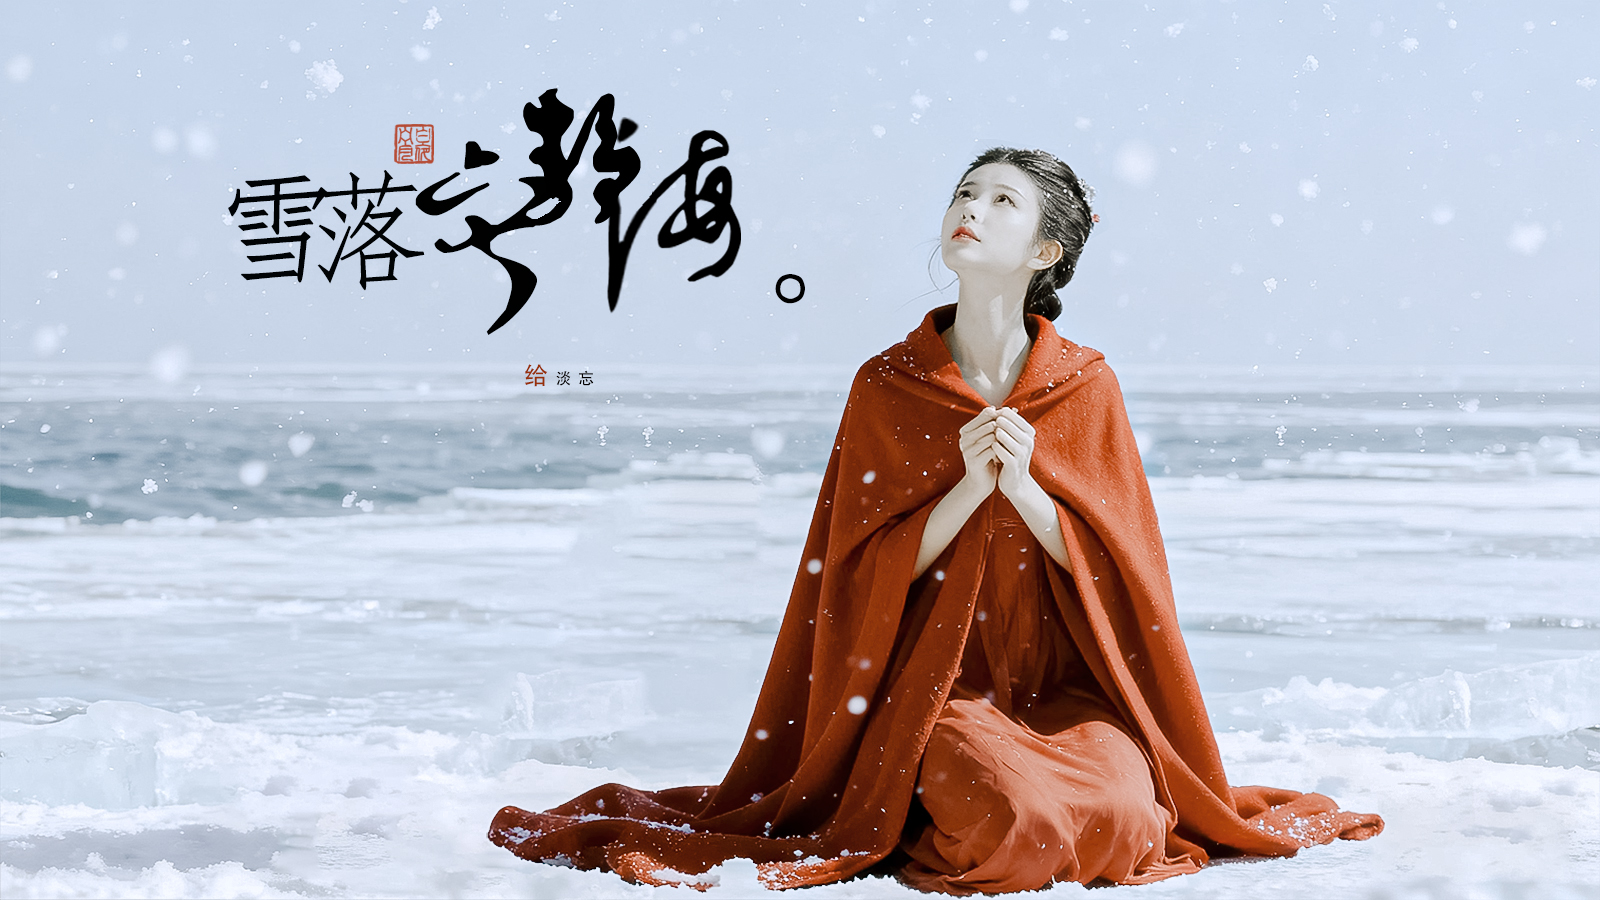
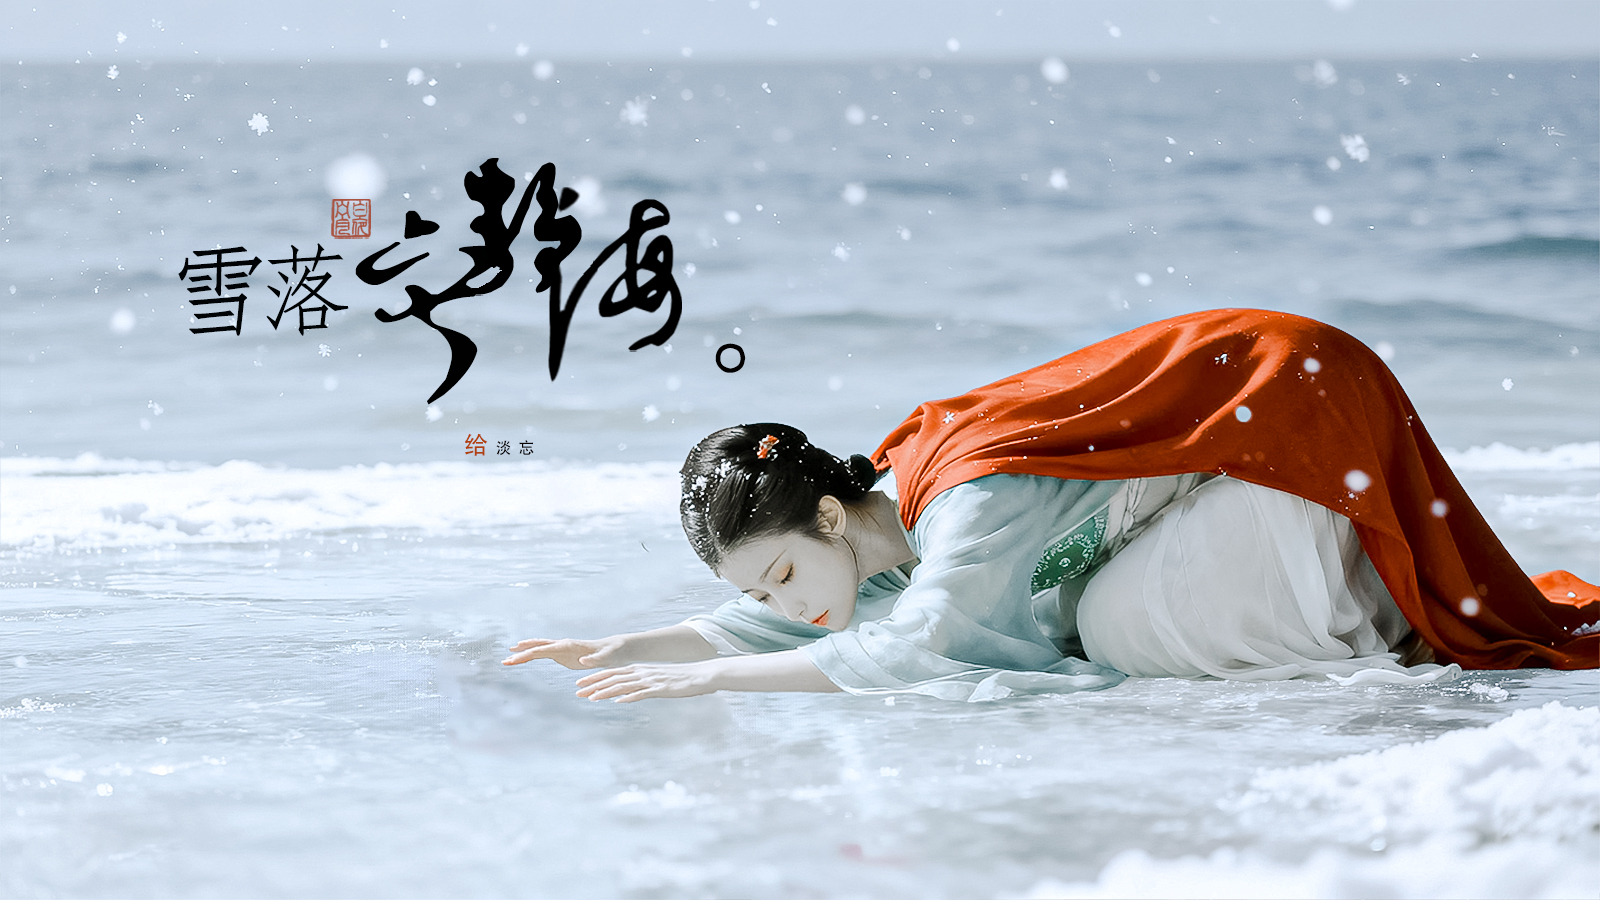
Site updated: 2025-10-16 22:57:04

diff --git a/html/img/xljjh0.html b/html/img/xljjh0.html
@@ -1,0 +1,200 @@
+<!DOCTYPE html>
+<html>
+<head>
+<meta charset="UTF-8">
+<title></title>
+<style>
+#mydiv { 
+    margin: 0px 0 30px;
+	display: grid;
+	place-items: center;
+	width: 1600px;
+	height: 900px;
+	background-color: #000205;
+	user-select: none;
+	overflow: hidden;
+	position: relative;
+	z-index: 1;  
+}
+
+
+.slide {
+  position: absolute;
+  top: 0;
+  left: 0;
+  width: 100%;
+  height: 100%;
+  opacity: 0; 
+}
+
+.slide img {
+  position: absolute;
+  top: 0;
+  left: 0;
+  width: 100%;
+  height: 100%;
+  object-fit: cover;
+  display: block;
+}
+
+
+#overlay {
+  position: absolute;
+  top: -60px;
+  left: 0;
+  width: 100%;
+  height: calc(100% + 80px);
+  object-fit: cover;
+  mix-blend-mode: overlay;
+  opacity: 0.0;
+  z-index: 50;
+  pointer-events: none;
+}
+
+/* 添加模糊到清晰效果样式 */
+.blur-to-clear-effect {
+  animation: blurToClear 1.5s ease-out forwards;
+}
+
+@keyframes blurToClear {
+  from {
+    filter: blur(10px);
+    opacity: 0;
+  }
+  to {
+    filter: blur(0);
+    opacity: 1;
+  }
+}
+
+/* 添加迷幻频闪效果样式 */
+.psychedelic-strobe-effect {
+  animation: strobe 0.1s ease-in-out 10;
+}
+
+@keyframes strobe {
+  0%, 100% {
+    filter: grayscale(0%);
+    opacity: 1;
+  }
+  50% {
+    filter: grayscale(100%);
+    opacity: 0.8;
+  }
+}
+
+
+#vid1, #vid2 {
+  position: absolute;
+  width: 100%;
+  height: 120%;
+  top: -80px;
+  object-fit: cover;
+  pointer-events: none;
+  mix-blend-mode: screen;
+  opacity: 0.55;
+}
+#vid1 { z-index: 2; }
+#vid2 { 
+  z-index: 3;
+  -webkit-mask: linear-gradient(to bottom, red 50%, transparent 55%, transparent);
+}
+</style> 
+<body>
+<div id="mydiv">
+
+  <div class="slide">
+    <img src="https://windflower2022.github.io/image/xljjh1.jpg" alt="图片1">
+  </div>
+  <div class="slide">
+    <img src="https://windflower2022.github.io/image/xljjh3.jpg" alt="图片2">
+  </div>
+  <div class="slide">
+    <img src="https://windflower2022.github.io/image/xljjh2.jpg" alt="图片3">
+  </div>
+  <div class="slide">
+    <img src="https://windflower2022.github.io/image/xljjh1.jpg" alt="图片4">
+</div>
+    <div class="slide">
+        <img src="https://windflower2022.github.io/image/xljjh2.jpg" alt="图片1">
+      </div>
+      <div class="slide">
+        <img src="https://windflower2022.github.io/image/xljjh3.jpg" alt="图片3">
+      </div>  
+  </div>
+  
+
+  <video id="overlay" autoplay loop muted playsinline>
+    <source src="https://img.tukuppt.com/video_show/2422006/00/01/70/5b4b1e2590ccc.mp4" type="video/mp4">
+  </video>
+  
+  <video id="vid1" src="https://img.tukuppt.com/video_show/2629112/00/02/23/5b5885f450f50.mp4" autoplay loop muted></video>
+  <video id="vid2" src="https://img.tukuppt.com/video_show/15653652/00/80/83/60d04564c32f7.mp4" autoplay loop muted></video>
+</div>  
+
+<script>
+
+let currentIndex = 0;
+const slides = document.querySelectorAll('.slide');
+const totalSlides = slides.length; 
+let timer;
+let effectIndex = 0;
+
+// 将效果数组改为只有模糊到清晰和迷幻频闪两种效果
+const effects = [
+  {func: applyBlurToClearEffect},    
+  {func: applyPsychedelicStrobeEffect}      
+];
+
+function init() {
+  const firstSlide = slides[currentIndex];
+  effects[effectIndex].func(firstSlide); 
+  effectIndex = (effectIndex + 1) % effects.length; 
+  startTimer(); 
+}
+
+// 清除所有效果
+function clearEffects() {
+  // 移除所有可能的效果类
+  slides.forEach(slide => {
+    slide.style.opacity = '0';
+    slide.classList.remove('blur-to-clear-effect', 'psychedelic-strobe-effect');
+  });
+}
+
+function showNext() {
+  clearEffects(); 
+  currentIndex = (currentIndex + 1) % totalSlides;
+  const currentEffect = effects[effectIndex];
+  effectIndex = (effectIndex + 1) % effects.length; 
+  
+  const targetSlide = slides[currentIndex];
+  currentEffect.func(targetSlide); 
+  resetTimer(); 
+}
+
+// 模糊到清晰效果
+function applyBlurToClearEffect(slide) {
+  slide.style.opacity = '1';
+  slide.classList.add('blur-to-clear-effect');
+}
+
+// 迷幻频闪效果（黑白交替）
+function applyPsychedelicStrobeEffect(slide) {
+  slide.style.opacity = '1';
+  slide.classList.add('psychedelic-strobe-effect');
+}
+
+function startTimer() {
+  timer = setInterval(showNext, 4000);
+}
+
+function resetTimer() {
+  clearInterval(timer);
+  startTimer();
+}
+
+window.onload = init;
+</script>
+</body>
+</html>
